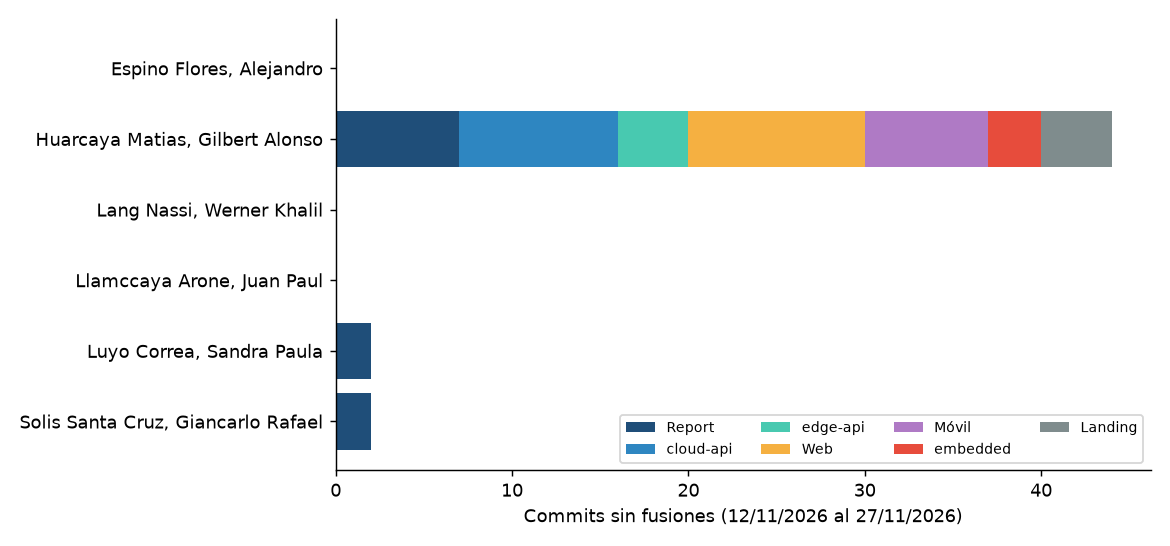
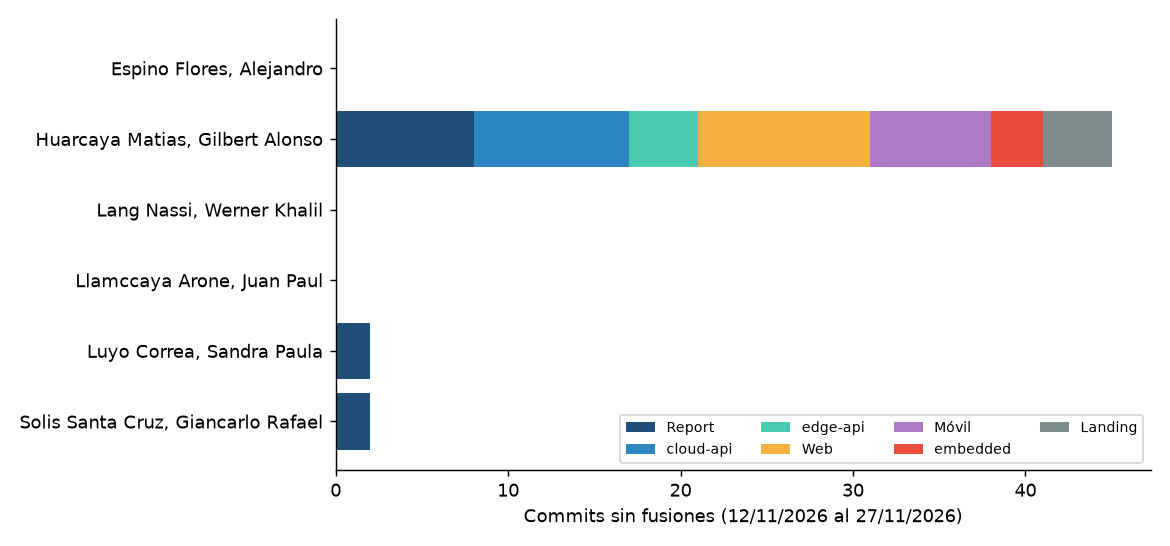
docs(report): remove long dashes, vary repeated openings and set the final tb2 commit counts

diff --git a/README.md b/README.md
@@ -206,7 +206,7 @@ Las capturas muestran el historial de commits del informe en develop durante la 
 
 **TB2**
 
-En esta entrega el informe se integró en una sola rama, `docs/tb2-final-report`, abierta desde `main` y llevada a `main` mediante un pull request. Cada bloque de cambios es un commit propio: el Capítulo III con las historias del refinamiento y el tablero público del Product Backlog, el Capítulo IV con el diseño táctico vigente de Alerting, IAM y Monitoring, el Capítulo V con el idioma por defecto y el montaje del dispositivo, el Capítulo VI con la configuración y las evidencias de los Sprints 1, 2 y 3, y las secciones de cierre. Entre el 12 y el 27 de noviembre de 2026 el repositorio del informe registró 2 commits de Luyo Correa, 2 de Solis Santa Cruz y 7 de Huarcaya Matias, y los repositorios de código, 37 commits de Huarcaya Matias. El detalle por repositorio y la interpretación se presentan en la sección 6.2.3.9.
+En esta entrega el informe se integró en una sola rama, `docs/tb2-final-report`, abierta desde `main` y llevada a `main` mediante un pull request. Cada bloque de cambios es un commit propio: el Capítulo III con las historias del refinamiento y el tablero público del Product Backlog, el Capítulo IV con el diseño táctico vigente de Alerting, IAM y Monitoring, el Capítulo V con el idioma por defecto y el montaje del dispositivo, el Capítulo VI con la configuración y las evidencias de los Sprints 1, 2 y 3, y las secciones de cierre. Entre el 12 y el 27 de noviembre de 2026 el repositorio del informe registró 2 commits de Luyo Correa, 2 de Solis Santa Cruz y 8 de Huarcaya Matias, y los repositorios de código, 37 commits de Huarcaya Matias. El detalle por repositorio y la interpretación se presentan en la sección 6.2.3.9.
 
 <p align="center"><img src="assets/collaboration/tb2-commits-por-integrante.png" alt="Commits por integrante y repositorio durante TB2" width="800"></p>
 
@@ -3330,7 +3330,7 @@ La entidad `Device` se mantiene separada de `Room` con una razón concreta: sust
 <a id="42462-bounded-context-database-design-diagram"></a>
 ##### <i>**4.2.4.6.2. Bounded Context Database Design Diagram.**</i>
 
-El bounded context persiste en el esquema Monitoring, con las tablas que reproducen la estructura física del negocio —local, tipos de sala, salas y dispositivos— más la telemetría que estos reportan.
+El bounded context persiste en el esquema Monitoring, con las tablas que reproducen la estructura física del negocio (local, tipos de sala, salas y dispositivos), la telemetría que estos reportan y los reportes de incomodidad de los miembros.
 
 <p align="center"><em>Figura 62.</em> Diagrama de base de datos del bounded context Monitoring.</p>
 
@@ -4852,7 +4852,7 @@ El montaje físico de ZenRoom es un nodo de monitoreo ambiental por sala sobre u
 
 **Continuidad de funcionamiento.** La evaluación del confort y el control de los indicadores se ejecutan en el ESP32, mientras una tarea separada gestiona la comunicación. El firmware tiene una cola de reenvío en LittleFS y una alternativa en memoria RAM para los lotes que esperan envío, y reintenta su publicación al recuperar la conexión. Ante una lectura fallida aislada del DHT22, usa la última válida, y si el sensor deja de responder por más de diez segundos, omite las ventanas afectadas y apaga el semáforo para representar la ausencia de datos.
 
-**Pronóstico local de temperatura.** El firmware incorpora una red neuronal de arquitectura 5–16–16–1, con 385 parámetros, entrenada con datos del simulador del equipo. Cuando tiene el historial necesario, estima la probabilidad de que una sala ocupada alcance su límite de temperatura en los siguientes 15 minutos. La inferencia se ejecuta en el ESP32 y genera un aviso anticipado con el parpadeo del LED ámbar cuando la probabilidad llega a 0,85. El estado rojo tiene prioridad sobre este aviso.
+**Pronóstico local de temperatura.** El firmware incorpora una red neuronal de arquitectura 5-16-16-1, con 385 parámetros, entrenada con datos del simulador del equipo. Cuando tiene el historial necesario, estima la probabilidad de que una sala ocupada alcance su límite de temperatura en los siguientes 15 minutos. La inferencia se ejecuta en el ESP32 y genera un aviso anticipado con el parpadeo del LED ámbar cuando la probabilidad llega a 0,85. El estado rojo tiene prioridad sobre este aviso.
 
 # Capítulo VI: Product Implementation, Validation & Deployment.
 
@@ -6540,7 +6540,7 @@ La versión `v1.5.0` del RESTful API añade los servicios de alertas y de report
 | GET | `/api/v1/discomfort-reports/mine` | Lista los reportes del usuario autenticado | — | ADMIN, MEMBER | 200 con la lista; 401 |
 | GET | `/api/v1/discomfort-reports/summary` | Cuenta los reportes por sala y categoría | Consulta: `from`, `to` (opcionales) | ADMIN | 200 con las salas con más reportes primero; 400, 403 |
 
-La versión también cambia el inicio de sesión: un correo desconocido o una contraseña incorrecta responden 401 con `IAM_INVALID_CREDENTIALS`, y una cuenta desactivada recibe 401 con `IAM_ACCOUNT_DISABLED`. Con las operaciones de las secciones 6.2.1.7 y 6.2.2.7 y `PATCH /api/v1/users/{userId}`, que desactiva o reactiva una cuenta, se completan las 35 operaciones.
+Además, el inicio de sesión cambió: un correo desconocido o una contraseña incorrecta responden 401 con `IAM_INVALID_CREDENTIALS`, y una cuenta desactivada recibe 401 con `IAM_ACCOUNT_DISABLED`. Con las operaciones de las secciones 6.2.1.7 y 6.2.2.7 y `PATCH /api/v1/users/{userId}`, que desactiva o reactiva una cuenta, se completan las 35 operaciones.
 
 Una alerta cerrada se consulta así:
 
@@ -6682,12 +6682,12 @@ En el Sprint 3 el trabajo de código siguió el mismo flujo de los sprints anter
 | Integrante | Report | cloud-api | edge-api | Web | Móvil | embedded | Landing | Total |
 |---|---:|---:|---:|---:|---:|---:|---:|---:|
 | Espino Flores, Alejandro | 0 | 0 | 0 | 0 | 0 | 0 | 0 | 0 |
-| Huarcaya Matias, Gilbert Alonso | 7 | 9 | 4 | 10 | 7 | 3 | 4 | 44 |
+| Huarcaya Matias, Gilbert Alonso | 8 | 9 | 4 | 10 | 7 | 3 | 4 | 45 |
 | Lang Nassi, Werner Khalil | 0 | 0 | 0 | 0 | 0 | 0 | 0 | 0 |
 | Llamccaya Arone, Juan Paul | 0 | 0 | 0 | 0 | 0 | 0 | 0 | 0 |
 | Luyo Correa, Sandra Paula | 2 | 0 | 0 | 0 | 0 | 0 | 0 | 2 |
 | Solis Santa Cruz, Giancarlo Rafael | 2 | 0 | 0 | 0 | 0 | 0 | 0 | 2 |
-| **Total** | **11** | **9** | **4** | **10** | **7** | **3** | **4** | **48** |
+| **Total** | **12** | **9** | **4** | **10** | **7** | **3** | **4** | **49** |
 
 <p align="center"><em>Figura 174.</em> Commits por integrante y repositorio durante el Sprint 3, obtenidos del historial de cada repositorio.</p>
 
